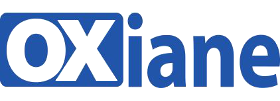
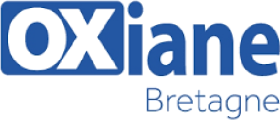
fix : mise à jour sponsor Oxiane vers Oxiane Bretagne

diff --git a/views/sponsors.html b/views/sponsors.html
@@ -74,8 +74,8 @@
                             </a>
                         </div>
                         <div class="col-xs-3 col-sm-3">
-                            <a href="http://www.oxiane.com/" target="_blank" title="Oxiane">
-                                <img src="images/parrains/oxiane.png" alt="Oxiane" title="Oxiane"
+                            <a href="http://www.oxiane.bzh/" target="_blank" title="Oxiane Bretagne">
+                                <img src="images/parrains/oxiane.png" alt="Oxiane" title="Oxiane Bretagne"
                                      class="img-responsive center-block">
                             </a>
                         </div>

diff --git a/views/templates/sponsors.html b/views/templates/sponsors.html
@@ -71,8 +71,8 @@
                 </a>
             </div>
             <div class="col-xs-3 col-sm-3">
-                <a href="http://www.oxiane.com" target="_blank" title="Oxiane">
-                    <img src="images/parrains/oxiane.png" alt="Oxiane" title="Oxiane"
+                <a href="http://www.oxiane.bzh" target="_blank" title="Oxiane Bretagne">
+                    <img src="images/parrains/oxiane.png" alt="Oxiane" title="Oxiane Bretagne"
                          class="img-responsive center-block">
                 </a>
             </div>
